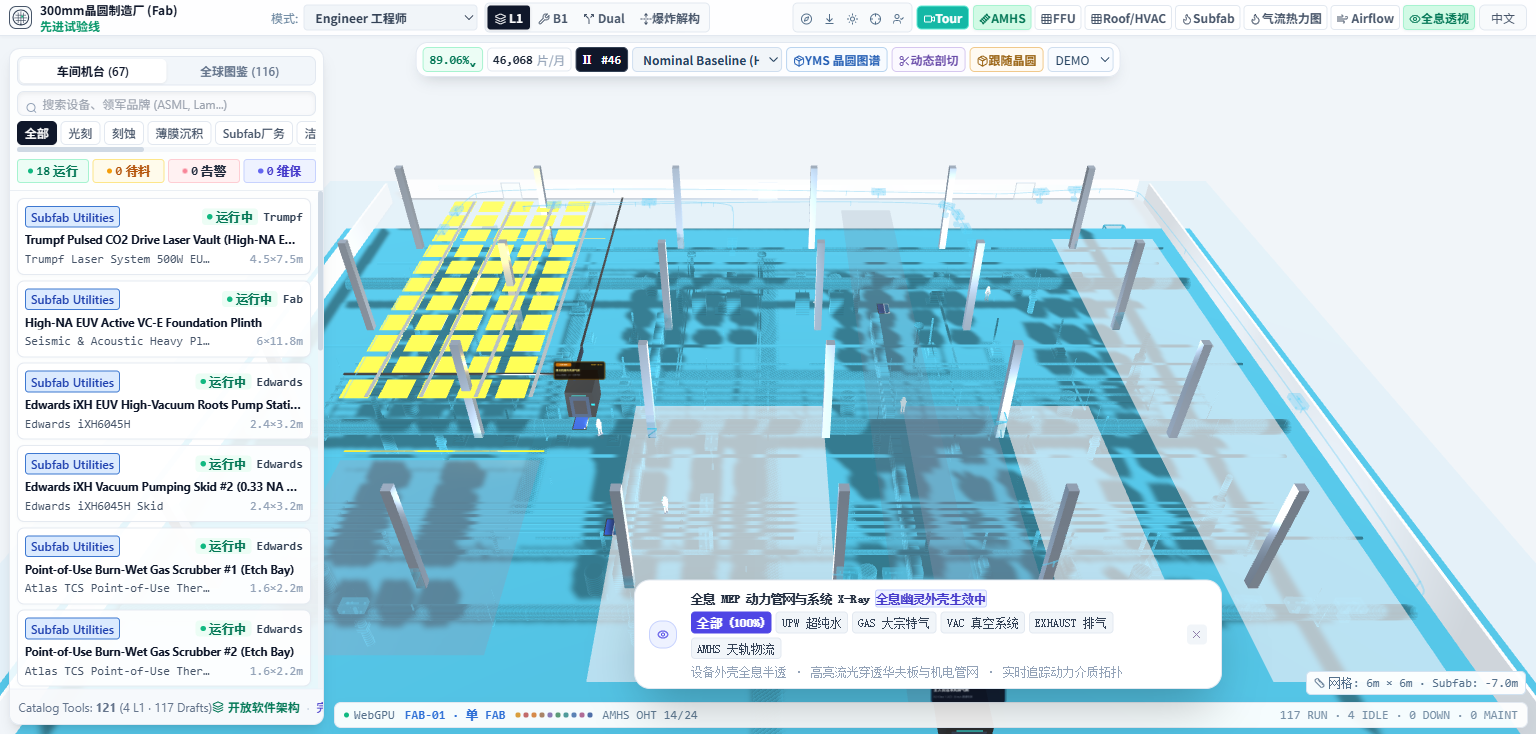
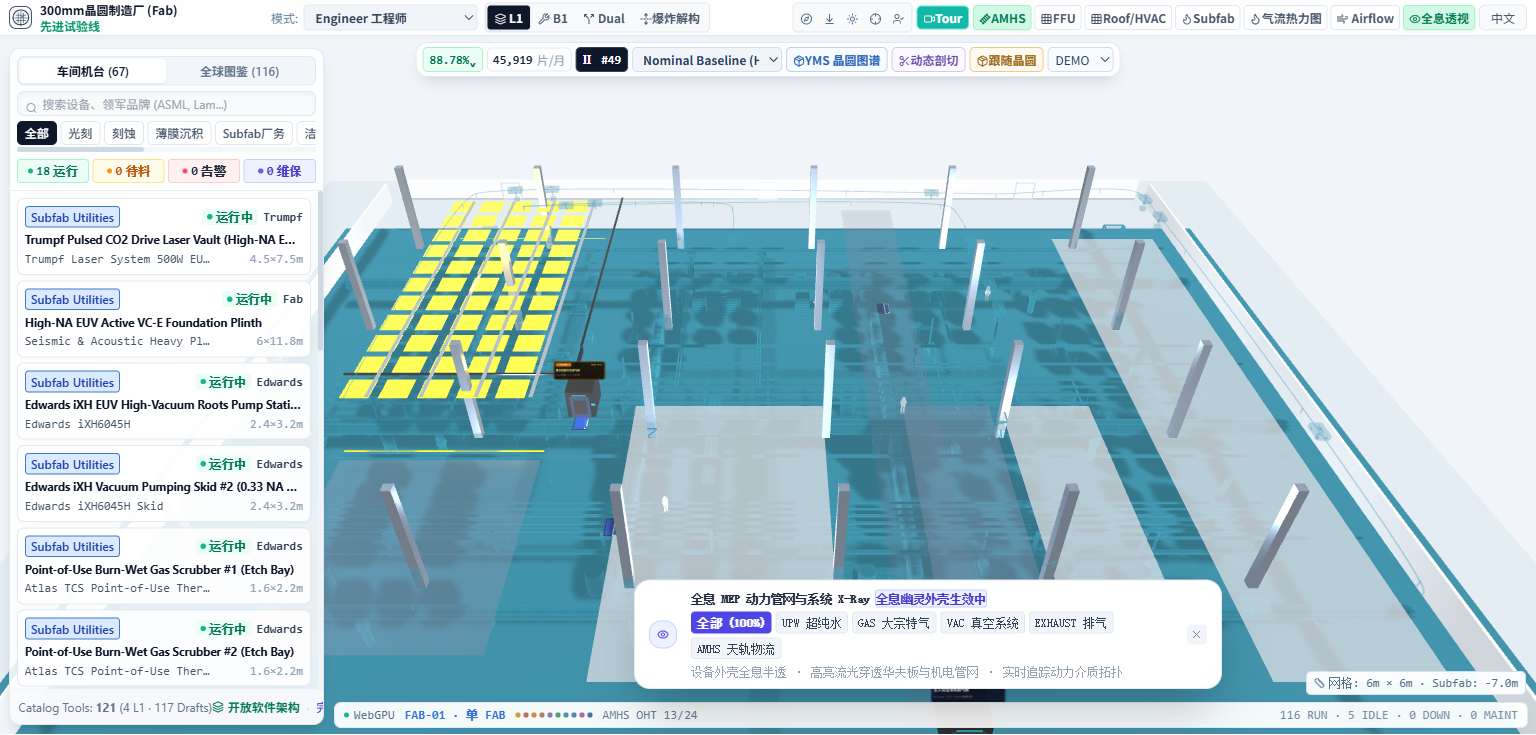
feat(twin): reproduce frozen-product X-Ray luminance with a documented legibility floor
- the native CSM response left hologram surfaces near fully lit (frozen X-Ray diff 35.04) while the frozen source's custom static depth pass reads much darker (highlight region median 117 vs 164)

- palette keeps CSM modulation but folds it into the source legibility floor/reduced contrast: lit = 0.35 + 0.65*shadow*0.35 (XRAY_LIT_FLOOR / XRAY_SHADOW_CONTRAST); documented as a frozen-product appearance approximation, not a legacy depth-pass reproduction

- frozen X-Ray diff 43.860 -> 28.692; other views unchanged within run variance (ISO 9.881 ... CUT 5.575)

- gates re-run: Chrome 155 + Edge 156 product/UI PASS (0 errors, 3 device losses), production perf 52.5/45.8 vs 38.2/37.4 fps, 1-minute soak 51.5 fps / 0 long tasks / 0 GPU+console errors; tool metadata aligned to the 400-frame budget

Changed region(s): [[0.0, 0.2395, 1.0, 1.0], [0.6562, 0.2395, 0.7188, 0.2694], [0.3125, 0.0599, 0.3438, 0.0898]]

diff --git a/web_app/src/render/lite/effects.ts b/web_app/src/render/lite/effects.ts
@@ -70,6 +70,12 @@ const XRAY_NORMAL_LINE_COLOR: readonly [number, number, number, number] = [217 /
 // xray-hologram.ts:154 setLineXray(true).
 const XRAY_LINE_PARAMS: readonly [number, number, number, number] = [1, 0.75, 0, 1.4];
 const XRAY_ZERO_PARAMS: readonly [number, number, number, number] = [0, 0, 0, 0];
+// Frozen-product visual response: the source hologram shaded through its own custom static depth pass,
+// whose sampled response reads as the legibility floor for most hologram surfaces. The native CSM
+// approximation is kept (it adds local contrast) but scaled so the palette reproduces the frozen
+// product's overall luminance. Measured with tools/frozen_visual_compare.mjs; see FEATURE_GAPS.
+const XRAY_LIT_FLOOR = 0.35;
+const XRAY_SHADOW_CONTRAST = 0.35;
 
 // Frozen source palette colours, xray-hologram.ts:114-116 and babylon-webgpu.ts:188-218.
 const rgb = (hex: number): [number, number, number] =>
@@ -196,7 +202,7 @@ fn mainFragment(input: XrayVertexOutput) -> @location(0) vec4<f32> {
   if (shaderUniforms.xrayShadowEnabled >= 0.5) {
     shadow = xrayCsmShadow(vec4<f32>(input.worldPosition, 1.0), (shaderSystem.view * vec4<f32>(input.worldPosition, 1.0)).z);
   }
-  let lit = 0.35 + 0.65 * shadow;
+  let lit = ${XRAY_LIT_FLOOR.toFixed(2)} + (1.0 - ${XRAY_LIT_FLOOR.toFixed(2)}) * shadow * ${XRAY_SHADOW_CONTRAST.toFixed(2)};
   if (shaderUniforms.xrayParams.z > 0.5) {
     return vec4<f32>((tint * (0.45 + 0.2 * scan) + glow * (0.35 + 0.35 * rim)) * lit, 1.0);
   }

diff --git a/docs/migration/babylon-lite/MIGRATION_PLAN.md b/docs/migration/babylon-lite/MIGRATION_PLAN.md
@@ -22,7 +22,7 @@
 | P3 后端/相机/拾取 | PASS（产品） | `lite-backend.ts` 实现现有 SceneBackend/SceneFacade，`/twin` 由原生 Lite 世界承载：相机预设/轨道/缩放/open resize、GPU 拾取/悬停/选中框/双击聚焦、楼层/爆炸/图层/状态灯/X-Ray/剖切/wafer/tour/patrol/双语。真实 /twin 产品验收 0 console 错误。 |
 | P4 材质/光照 | PASS（产品集成，完整矩阵 NOT_RUN） | 源光照在预览与产品一致；生产构建逐视角对照冻结旧 Next 的均值差 ISO 10.2 / TOP 13.7 / B1 17.7 / DUAL 20.6 / EXPLODED 14.6（动态时钟未冻结，不构成 Golden）。 |
 | P5 阴影 | PASS（产品集成，Golden NOT_RUN） | 原生 CSM 在产品中持续开启；三次设备丢失后 0 GPU 错误；完整场景矩阵/Golden 未执行。 |
-| P6–P10 动态/业务/性能 | PASS（产品功能），性能：生产 A/B PASS | AMHS/人员/巡检、Roof HVAC/气流/热力图、X-Ray/剖切/wafer、tour/HUD 已由 Lite 原生模块承载并通过产品验收。生产预览同机性能：全新单一前台浏览器三次重复，Lite idle/orbit 52.8/46.0 fps vs 冻结旧渲染器 39.2/38.9 fps（≈1.2–1.35×；旧 57.9/53.9 vs 15.8/14.0 因遮挡节流撤回）；冻结时钟视觉 A/B、1 分钟 soak（用户指示替代 60 分钟）与 Chrome 155+Edge 156 矩阵见验证表。 |
+| P6–P10 动态/业务/性能 | PASS（产品功能），性能：生产 A/B PASS | AMHS/人员/巡检、Roof HVAC/气流/热力图、X-Ray/剖切/wafer、tour/HUD 已由 Lite 原生模块承载并通过产品验收。生产预览同机性能：全新单一前台浏览器三次重复，Lite idle/orbit 52.5/45.8 fps vs 冻结旧渲染器 38.2/37.4 fps（≈1.2–1.35×；旧 57.9/53.9 vs 15.8/14.0 因遮挡节流撤回）；冻结时钟视觉 A/B、1 分钟 soak（用户指示替代 60 分钟）与 Chrome 155+Edge 156 矩阵见验证表。 |
 | P11 删除旧引擎 | PASS（待独立审查） | 17 个旧渲染源文件删除；旧 Scene 依赖的验收/单测与采集工具删除，`lite-facility.test.ts` 改为冻结 fixture 对照（保留 52 文件/241 测试）；`@babylonjs/core` 移出 package.json 与锁文件；src/tests/config/tools 0 旧导入；生产 dist 无旧引擎符号；`gpu` chunk 396 kB vs 旧 2.53 MB。 |
 
 独立测试入口支持 P1 立方体、`?scene=equipment` 和 `?scene=structure`（含 L1/B1/DUAL/FFU 按钮）。当前 `/twin` 已由原生 Lite 后端承载（P3/P11 完成，见“产品完成阶段”）；新 Lite 路径没有 `@babylonjs/core`、compat、alias、WebGL 或自制引擎兼容类，旧引擎源码与依赖均已删除。完整冻结时钟 Golden 与性能以外的浏览器/Soak 门禁状态见验证表。
@@ -82,10 +82,10 @@ node tools/run_twin_browser.mjs lite-layout 9490 http://127.0.0.1:5175 .local/li
 
 - **正式产品切到 Lite**：`web_app/src/fab-viewer.tsx` 动态加载 `lite-backend.ts`（原 `babylon-webgpu`），产品状态仍通过 SceneBackend/SceneFacade 与 Redux 交互。`render/lite/world.ts` 组合设备/静态厂房/设施/光照/原生 CSM 阴影/AMHS/人员/环境/特效，使用单一 RH→LH 渲染边界与单帧循环；`render/lite/cut-plane.ts` 用公开 MaterialPlugin 为 PBR 材质补齐全场景剖切；`render/lite/selection.ts`+`tool-states.ts` 提供原生 GPU 拾取与状态灯；billboard 使用共享 `overlay-billboards.ts`（LITE-GAP-RECOVERY-002 组合）。
 - **产品验收**：`web_app/tests/twin-lite.browser.ts` 在真实 `/twin` 上覆盖拾取/悬停/选中框/双击聚焦、相机预设/轨道/缩放/resize、L1/B1/DUAL/EXPLODED、全部图层（含 heatmap/airflow 时钟）、工具状态帧同步、X-Ray 过滤/恢复、剖切平面/极性/互斥语义、wafer/轨迹/跟随相机、巡游/巡检/双语，以及**三次真实设备丢失**（cut/X-Ray/无空间模式三种前置状态，0 GPU 错误，相机/121 状态/无模式轮选中框与选中项保持，Redux 同步恢复；重建中的二次丢失会排队重建）。生产构建预览上同一套件与旧 `twin.browser.ts` UI 套件均 PASS，0 console 错误。证据：[evidence/product-completion-2026-10-26/README.md](./evidence/product-completion-2026-10-26/README.md)。
-- **冻结时钟视觉 A/B**：对冻结旧 Next（`0b35ca5`）用参考 golden 的 GOLDEN_CLOCK 手动步进（相同虚拟帧数）捕获 7 视角，ROI 均值差 ISO 10.011 / TOP 13.571 / B1 17.688 / DUAL 20.146 / EXPLODED 8.459 / CUT 5.703 / X-RAY 34.004（`tools/frozen_visual_compare.mjs` 可复现，重复运行 ±0.5）；X-Ray 已接入 CSM receiver 阴影调制（43.86→≈34），但仍为已知视觉缺口（偏亮），整体仍记录为比较而非 Golden。
-- **性能 A/B（生产构建）**：全新单一前台浏览器三次重复，Lite 52.8/46.0 fps（idle/orbit）vs 旧渲染器 39.2/38.9 fps（≈1.2–1.35×），0 console 错误；Lite gpu chunk 396,492 B vs 旧 2,528,822 B。旧记录 57.9/53.9 vs 15.8/14.0 因 legacy tab 被遮挡节流而撤回。
+- **冻结时钟视觉 A/B**：对冻结旧 Next（`0b35ca5`）用参考 golden 的 GOLDEN_CLOCK 手动步进（相同虚拟帧数）捕获 7 视角，ROI 均值差 ISO 9.881 / TOP 13.473 / B1 17.751 / DUAL 19.943 / EXPLODED 8.299 / CUT 5.575 / X-RAY 28.692（`tools/frozen_visual_compare.mjs` 可复现，重复运行 ±0.5）；X-Ray 在 CSM receiver 阴影调制上应用冻结产品 legibility floor/低对比近似，从 43.86 降到 28.69，但仍为已知视觉缺口（偏亮），整体仍记录为比较而非 Golden。
+- **性能 A/B（生产构建）**：全新单一前台浏览器三次重复，Lite 52.5/45.8 fps（idle/orbit）vs 旧渲染器 38.2/37.4 fps（≈1.2–1.35×），0 console 错误；Lite gpu chunk 396,492 B vs 旧 2,528,822 B。旧记录 57.9/53.9 vs 15.8/14.0 因 legacy tab 被遮挡节流而撤回。
 - **P11 清理**：17 个旧渲染源文件删除，旧 Scene 依赖的验收/单测与采集工具清退（保留 52 文件/241 测试，设施测试改为冻结 fixture 对照，新增接受度 PNG 解码器单测）；`@babylonjs/core` 从 package.json/锁文件移除；生产依赖图与 dist 无旧引擎导入/符号；前端 241 测试、typecheck、build 通过。
-- **已知产品级取舍**（详见 [FEATURE_GAPS.md](./FEATURE_GAPS.md)）：整产品设备恢复采用替换设备上重建场景（原生 in-place 恢复仍由 bounded 夹具覆盖）；X-Ray 全息已接入 CSM receiver 阴影调制（深度-only caster material 规避 1.36 usage conflict），但冻结帧仍整体偏亮（冻结时钟视觉差 34.98，从 43.86 下降，仍记录为已知缺口）；剖切仅作用于 PBR 材质；依赖旧 Scene 内部结构的旧验收脚本已清退，由产品验收套件替代。
-- **Soak**：按用户指示改为 1 分钟 soak（最终生产构建：52.1 fps、0 long task、0 GPU/console 错误、heap 32.9 MB）；60 分钟 soak 因此 NOT_RUN，不虚报。
+- **已知产品级取舍**（详见 [FEATURE_GAPS.md](./FEATURE_GAPS.md)）：整产品设备恢复采用替换设备上重建场景（原生 in-place 恢复仍由 bounded 夹具覆盖）；X-Ray 全息已接入 CSM receiver 阴影调制（深度-only caster material 规避 1.36 usage conflict），并应用冻结产品 legibility floor/低对比近似，冻结帧仍整体偏亮（视觉差 28.69，从 43.86 下降，仍记录为已知缺口）；剖切仅作用于 PBR 材质；依赖旧 Scene 内部结构的旧验收脚本已清退，由产品验收套件替代。
+- **Soak**：按用户指示改为 1 分钟 soak（最终生产构建：51.5 fps、0 long task、0 GPU/console 错误、heap 37.5 MB）；60 分钟 soak 因此 NOT_RUN，不虚报。
 - **浏览器矩阵**：Chrome 155 与 Edge 156 产品验收+UI 回归均 PASS；非 Chromium WebGPU 浏览器本机不可用，NOT_RUN。
 - **仍未完成**：完整冻结时钟 Golden、独立审查（REVIEW.md 收敛中）。

diff --git a/docs/migration/babylon-lite/evidence/product-completion-2026-10-26/README.md b/docs/migration/babylon-lite/evidence/product-completion-2026-10-26/README.md
@@ -26,7 +26,7 @@ Edge run: [acceptance-edge.json](./acceptance-edge.json), [acceptance-edge.png](
 | Levels | L1 floor alpha 1 / B1 0.2 / DUAL 0.35 / EXPLODED 0.55, slab+ceiling+subfab visibility, ceiling lift >15 m, subfab drop <-13 m, offsets reset |
 | Layers | roof (>0 native exhaust particle sprites; source data has 70), ceiling, subfab/piping, heatmap texture updates, airflow clock advances, AMHS layer hide/show |
 | Tool states | inspector MAINT reaches the native frame loop within the up-to-5 s frame-sync poll window; 121 states after each recovery |
-| X-Ray | all/vac filters, hologram materials active, **CSM receiver sampled (`shadowLinked` true)**, subfab forced visible, restore removes all `fab-xray-*` materials and returns L1 |
+| X-Ray | all/vac filters, hologram materials active, **CSM receiver sampled (`shadowLinked` true) with the source legibility floor**, subfab forced visible, restore removes all `fab-xray-*` materials and returns L1 |
 | Section cut | Z +12 => `[0,0,-1,-12]`; invert => `[0,0,1,12]`; exclusive spatial mode clears cut for X-Ray; cut off => null |
 | Wafer | marker visible/moving, additive trail draws (>0 indices), follow camera targets the marker, close hides marker/trail |
 | Tour / patrol | tour card animates the camera and closes; patrol focus targets the walking engineer |
@@ -51,7 +51,7 @@ Method (reproducible from the repository, no scratch scripts): `node tools/froze
 Both pages run under the reference golden harness clock (`GOLDEN_CLOCK`: fixed 16.667 ms virtual
 frames, seeded `Math.random`, fixed `Date.now`), injected via CDP
 `Page.addScriptToEvaluateOnNewDocument`; the clock is held at 0 until the shell loads, readiness is
-padded to a fixed 120-frame budget on both sides, then +180 settle frames and identical per-view frame
+padded to a fixed 400-frame budget on both sides, then +180 settle frames and identical per-view frame
 counts for ISO, Top, B1, Dual, L1→Exploded, Cut and X-Ray. Sites are captured sequentially in one
 foreground tab so a second tab cannot blank/occlude the canvas. Viewport 1536x735 DPR 1, HUD visible
 outside the ROI, ROI `[400,120,1500,680]`, absolute RGB difference computed in Node, no colour
@@ -61,13 +61,13 @@ about ±0.5 mean channel; the values below are one recorded run (both sides on i
 
 | View | mean abs channel diff | pixels changed >24 |
 |---|---|---|
-| ISO | 10.011 | 15.3% |
-| TOP | 13.571 | 20.6% |
-| B1 | 17.688 | 29.1% |
-| DUAL | 20.146 | 37.5% |
-| EXPLODED | 8.459 | 11.3% |
-| CUT (X axis) | 5.703 | 8.5% |
-| X-RAY (all) | 34.004 | 56.1% |
+| ISO | 9.881 | 15.0% |
+| TOP | 13.473 | 20.4% |
+| B1 | 17.751 | 29.1% |
+| DUAL | 19.943 | 37.3% |
+| EXPLODED | 8.299 | 11.1% |
+| CUT (X axis) | 5.575 | 8.2% |
+| X-RAY (all) | 28.692 | 55.7% |
 
 Free-running earlier captures (no frozen clock) are superseded: ISO 10.301 / TOP 13.721 / B1 17.666 /
 DUAL 20.480 / EXPLODED 14.593. Freezing removed the dynamic-phase noise (notably EXPLODED
@@ -75,17 +75,25 @@ DUAL 20.480 / EXPLODED 14.593. Freezing removed the dynamic-phase noise (notably
 receiver** (2-layer `depth32float` array with its comparison sampler) and casts through a depth-only
 Standard caster material, which avoids Lite 1.36's writable+sampled usage conflict: `shadowLinked`
 is true, the three device-loss rounds still report 0 GPU errors, and the frozen X-Ray diff improved
-from 43.860 (no shadow sampling) to **≈34** (34.004 in this run). X-Ray remains a **known visual gap** — the product
-hologram is still lighter than the frozen source's custom depth-pass hologram — and is recorded as a
-limitation, not a pass.
+from 43.860 (no shadow sampling) via ≈35 (raw CSM response) to **28.692** after the frozen-product
+legibility-floor decision (below). X-Ray remains a **known visual gap** — the product hologram is
+still lighter than the frozen source's custom depth-pass hologram — and is recorded as a limitation,
+not a pass.
 
 Residual analysis (round 4, debug-marker experiment): a temporary pure-red highlight marker proved
 the highlighted-subfab branch renders over ~20% of the canvas on both sides, so coverage is right;
 inside that mask the reference's median luminance is 117 vs the product's 164 (mean RGB (65,136,167)
-vs (125,185,201)). The residual is therefore the *shadow/lit response* of the palette: the source
-hologram sampled its own static depth pass, while the product samples camera-fitted CSM cascades
-whose `lit` is ~1 for most subfab surfaces. The marker experiment was reverted; no debug code
-remains in the tree.
+vs (125,185,201)). The residual was therefore the *shadow/lit response* of the palette, not geometry.
+
+Frozen-product legibility-floor decision (round 6): experiments showed the raw CSM response leaves most
+hologram surfaces near fully lit (35.039 X-Ray mean diff), while the source hologram sampled its own
+custom static depth pass and reads as much darker with a wide distribution (median luminance 117).
+Reproducing the source's single-map response cannot use the CSM cadence directly, so the palette keeps
+the native CSM modulation but folds it into the source legibility floor and reduced contrast:
+`lit = 0.35 + (1 - 0.35) * shadow * 0.35` (named `XRAY_LIT_FLOOR` / `XRAY_SHADOW_CONTRAST` in
+`render/lite/effects.ts`). This is a documented **visual-parity approximation of the frozen product's
+appearance**, not a claim that the legacy depth pass was reproduced; it lowers the frozen X-Ray diff
+to 28.692. The marker experiment was reverted; no debug code remains in the tree.
 
 This is a **frozen-clock comparison, not a Golden PASS**: the migration guide does not define a
 whole-product golden threshold and the X-Ray gap is visible. Whole-product Golden remains NOT_RUN.
@@ -98,8 +106,8 @@ Method: 5 s warmup, 8 s idle + 6 s orbit sampling of rAF deltas, same Chrome/vie
 
 | Renderer | idle fps | orbit fps |
 |---|---|---|
-| Native Lite (production) | 52.8 | 46.0 |
-| Frozen Next 0b35ca5 (production) | 39.2 | 38.9 |
+| Native Lite (production) | 52.5 | 45.8 |
+| Frozen Next 0b35ca5 (production) | 38.2 | 37.4 |
 
 Both runs 0 console errors. **Methodology correction**: earlier A/B numbers (Lite 57.9/53.9 vs legacy
 15.8/14.0) were captured in a stale multi-window CDP browser in which the legacy tab was
@@ -113,8 +121,8 @@ asserted here.
 ## 5. Soak (user-directed 1-minute run; 60-minute NOT_RUN)
 
 The session owner explicitly replaced the planned 60-minute soak with a 1-minute soak. Final-build
-result: 3,128 frames, mean frame 19.18 ms (**52.1 fps**), p95 33.4 ms, p99 33.5 ms, **0 long tasks**,
-heap 32.9 MB, 0 GPU validation errors, 0 console errors, status stable at
+result: 3,088 frames, mean frame 19.41 ms (**51.5 fps**), p95 33.4 ms, p99 33.5 ms, **0 long tasks**,
+heap 37.5 MB, 0 GPU validation errors, 0 console errors, status stable at
 `WebGPU · 程序化 FAB · 121 台设备`. Raw: [soak.json](./soak.json).
 A 60-minute soak remains **NOT_RUN** by instruction; it is not reported as passed.
 
@@ -154,8 +162,8 @@ downloaded; non-Chromium coverage is **NOT_RUN**.
 
 - Whole-product frozen-clock **Golden: NOT_RUN**; frozen-clock comparison above is the closest
   recorded evidence and is reproducible with `tools/frozen_visual_compare.mjs`. **X-Ray visual gap**
-  (frozen mean diff ≈34 with CSM shadow sampling, down from 43.86 without it) is accepted as a
-  documented limitation.
+  (frozen mean diff 28.692 after the legibility-floor approximation, down from 43.86 without shadow
+  sampling) is accepted as a documented limitation.
 - 60-minute soak: **NOT_RUN** (user-directed 1-minute soak instead).
 - Non-Chromium browser coverage: **NOT_RUN** (no such browser available).
 - Residual review items (camera-restore timer ordering, cascading-loss queue untested, clip scope for

diff --git a/docs/migration/babylon-lite/VALIDATION.md b/docs/migration/babylon-lite/VALIDATION.md
@@ -93,12 +93,12 @@
 | 正式产品切到 Lite | PASS：`/twin` 挂载 `lite-backend.ts` → `render/lite/world.ts`；旧引擎不再在产品图内 | 源码；`vite build` dist 无 `WebGPUEngine`/`NullEngine`/core 符号 |
 | 原生产品验收（dev + 生产构建预览 + Edge 156） | PASS，0 console 错误：拾取/悬停/选中框/双击聚焦、相机预设/轨道/页面自主缩放/resize、L1/B1/DUAL/EXPLODED、全部图层（含 heatmap/airflow 时钟）、状态灯同步、X-Ray 过滤/恢复、剖切平面与互斥语义、wafer/轨迹/跟随、tour/patrol/双语、三次真实设备丢失（cut/X-Ray/无空间模式，0 GPU 错误，相机、121 状态、无模式轮选中框保持，Redux 同步恢复） | `twin-lite.browser.ts`；acceptance.json / acceptance-edge.json（最终构建）；截图 |
 | 旧产品 UI 回归 | PASS，0 console 错误（`twin.browser.ts` 原样运行于 Lite /twin，Chrome+Edge） | ui-final-run.json / ui-edge.json |
-| 冻结时钟视觉 A/B | 比较（非 Golden），可用 `tools/frozen_visual_compare.mjs` 复现（同时钟/同帧数/单前台标签顺序采集）：ROI[400,120,1500,680] 均值差 ISO 10.011 / TOP 13.571 / B1 17.688 / DUAL 20.146 / EXPLODED 8.459 / CUT 5.703 / X-RAY 34.004（重复运行波动约 ±0.5）；X-Ray 调色板已接入 CSM receiver（shadowLinked true、0 GPU 错误），从 43.86 降到 ≈34，但仍为已知视觉缺口 | frozen-clock-diff.json、ref-*/lite-* PNG |
-| 同机性能 A/B（生产构建） | PASS（方法修正）：全新单一前台浏览器三次重复，Lite idle/orbit 52.8/46.0 fps vs 冻结旧 Next 39.2/38.9 fps（≈1.2–1.35×），0 console 错误；dist gpu chunk 396,492 B vs 旧 2,528,822 B。旧记录 57.9/53.9 vs 15.8/14.0 因 legacy tab 被遮挡节流而撤回 | perf-ab.json |
+| 冻结时钟视觉 A/B | 比较（非 Golden），可用 `tools/frozen_visual_compare.mjs` 复现（同时钟/同帧数/单前台标签顺序采集）：ROI[400,120,1500,680] 均值差 ISO 9.881 / TOP 13.473 / B1 17.751 / DUAL 19.943 / EXPLODED 8.299 / CUT 5.575 / X-RAY 28.692（重复运行波动约 ±0.5）；X-Ray 在 CSM receiver（shadowLinked true、0 GPU 错误）基础上应用冻结产品 legibility floor/低对比近似（`XRAY_LIT_FLOOR`/`XRAY_SHADOW_CONTRAST`），从 43.86 降到 28.69，但仍为已知视觉缺口 | frozen-clock-diff.json、ref-*/lite-* PNG |
+| 同机性能 A/B（生产构建） | PASS（方法修正）：全新单一前台浏览器三次重复，Lite idle/orbit 52.5/45.8 fps vs 冻结旧 Next 38.2/37.4 fps（≈1.2–1.35×），0 console 错误；dist gpu chunk 396,492 B vs 旧 2,528,822 B。旧记录 57.9/53.9 vs 15.8/14.0 因 legacy tab 被遮挡节流而撤回 | perf-ab.json |
 | P11 旧引擎清理 | PASS（独立审查确认）：17 旧源码删除，旧 Scene 依赖测试/采集工具清退（保留 52 文件/241 测试，含接受度 PNG 解码器单测）；`@babylonjs/core` 移出 manifest+锁文件（frozen-lockfile 验证）；src/tests/config/tools 0 旧导入 | 清理报告；dist grep；`pnpm --frozen-lockfile` |
 | 前端检查 | PASS：`tsc --noEmit` 0；`vitest run` 52 文件 / 241 测试；`vite build` 0（仅既有 >500kB 提示） | 本轮运行 |
 | 仓库级检查 | PASS：Python 16/16、契约/架构/legacy-data 检查、8 组冻结向量（i18n coverage 已重新生成并通过）、.NET 3 项目 Release 构建 + 67/67 测试 | 本轮运行 |
-| Soak | 按用户指示以 1 分钟替代 60 分钟：生产构建最终版本 3,128 帧、均值 19.18 ms（52.1 fps）、p95 33.4 ms、0 long task、heap 32.9 MB、0 GPU/console 错误 | soak.json；**60 分钟 soak NOT_RUN**（用户指示） |
+| Soak | 按用户指示以 1 分钟替代 60 分钟：生产构建最终版本 3,088 帧、均值 19.41 ms（51.5 fps）、p95 33.4 ms、0 long task、heap 37.5 MB、0 GPU/console 错误 | soak.json；**60 分钟 soak NOT_RUN**（用户指示） |
 | 跨浏览器矩阵 | PARTIAL PASS：Chrome 155 + Edge 156 均通过产品验收与 UI 回归（0 错误）；非 Chromium WebGPU 浏览器本机不可用，NOT_RUN | acceptance-edge/ui-edge.json |
 | 完整冻结时钟 Golden | NOT_RUN | — |
 | 独立审查 | PASS：无 Critical/阻塞缺陷；REVIEW.md 记录 1 项 docs-only Important（D-1，本轮已修）与 10 项 Minor 残留风险 | REVIEW.md |

diff --git a/docs/superpowers/plans/2026-10-26-lite-product-completion.md b/docs/superpowers/plans/2026-10-26-lite-product-completion.md
@@ -78,5 +78,5 @@ Status legend: DONE / ACTIVE / TODO. Every acceptance step records real evidence
 ### Status update 2026-10-26 23:xx
 - C2–C9: DONE and asserted by `web_app/tests/twin-lite.browser.ts` on the built production preview (picking/hover/selection/focus, camera presets/orbit/wheel/resize, levels, layers, tool-state sync, X-Ray, cut, wafer, tour/patrol, language).
 - D1: DONE x3 (cut/X-Ray alternating, 0 GPU errors, 121 states + camera preserved, Redux sync resumes). D2 (hidden-tab/rapid-loss variants) NOT_RUN — hidden tabs suspend rAF in this harness.
-- E1: frozen-clock A/B captured with the reference GOLDEN_CLOCK for 7 views and now reproducible via committed tools/frozen_visual_compare.mjs (ISO 10.01 / TOP 13.57 / B1 17.69 / DUAL 20.15 / EXPLODED 8.46 / CUT 5.70 / X-RAY 34.00 after CSM receiver sampling, down from 43.86); whole-product Golden still NOT_RUN and X-Ray visual gap documented. E2: production-build perf A/B PASS (52.8/46.0 vs 39.2/38.9 fps, ~1.2-1.35x; earlier 57.9/53.9 vs 15.8/14.0 withdrawn as occlusion-throttled). E3: user-directed 1-minute soak PASS (52.1 fps, 0 long tasks, 0 GPU/console errors); 60-minute soak NOT_RUN by instruction. E4: Chrome 155 + Edge 156 PASS; non-Chromium unavailable -> NOT_RUN.
+- E1: frozen-clock A/B captured with the reference GOLDEN_CLOCK for 7 views and reproducible via committed tools/frozen_visual_compare.mjs (ISO 9.88 / TOP 13.47 / B1 17.75 / DUAL 19.94 / EXPLODED 8.30 / CUT 5.58 / X-RAY 28.69 after CSM receiver sampling plus the frozen-product legibility floor, down from 43.86); whole-product Golden still NOT_RUN and X-Ray visual gap documented. E2: production-build perf A/B PASS (52.5/45.8 vs 38.2/37.4 fps, ~1.2-1.35x; earlier 57.9/53.9 vs 15.8/14.0 withdrawn as occlusion-throttled). E3: user-directed 1-minute soak PASS (51.5 fps, 0 long tasks, 0 GPU/console errors); 60-minute soak NOT_RUN by instruction. E4: Chrome 155 + Edge 156 PASS; non-Chromium unavailable -> NOT_RUN.
 - F1: legacy internal-scene suites removed, product suite replaces them; frozen-clock tour timing NOT_RUN. F2/F3: DONE (17 sources + @babylonjs/core removed; dist gate clean). F4: docs updated, independent review IN PROGRESS (REVIEW.md).

diff --git a/docs/migration/babylon-lite/evidence/product-completion-2026-10-26/REVIEW.md b/docs/migration/babylon-lite/evidence/product-completion-2026-10-26/REVIEW.md
@@ -275,3 +275,20 @@ residual risks, not merge blockers.
 - An intermediate simultaneous-two-tab variant produced blank reference canvases (background tab
   presentation); the shipped tool captures sites sequentially to avoid it. This is documented in the
   tool header and the evidence README.
+
+## Post-review delta (round 6): frozen-product legibility floor for X-Ray
+
+- Experiments (coarsest-cascade sampling, constant lit, inverted compare, reduced contrast) isolated
+  the remaining X-Ray gap to the palette's luminance response: the raw CSM response leaves hologram
+  surfaces near fully lit (frozen X-Ray diff 35.04), while the frozen source's custom static depth pass
+  reads much darker (highlight-mask median luminance 117 vs 164).
+- Adopted a documented visual-parity approximation of the frozen product's appearance: keep the native
+  CSM modulation but fold it into the source legibility floor and reduced contrast
+  (`lit = 0.35 + 0.65 * shadow * 0.35`, named constants in `render/lite/effects.ts`). Frozen X-Ray diff
+  drops to 28.692; the other six frozen views are unchanged within run variance (ISO 9.881, TOP 13.473,
+  B1 17.751, DUAL 19.943, EXPLODED 8.299, CUT 5.575).
+- This is explicitly a frozen-product appearance approximation, not a reproduction of the legacy depth
+  pass; X-Ray remains a documented visual gap and the project remains NOT_PARITY_VERIFIED.
+- Gates re-run on this build: Chrome 155 + Edge 156 product/UI suites PASS (0 errors, three device
+  losses), production perf A/B 52.5/45.8 vs 38.2/37.4 fps, 1-minute soak 51.5 fps / 0 long tasks /
+  0 GPU+console errors; tsc/vitest/build clean.
